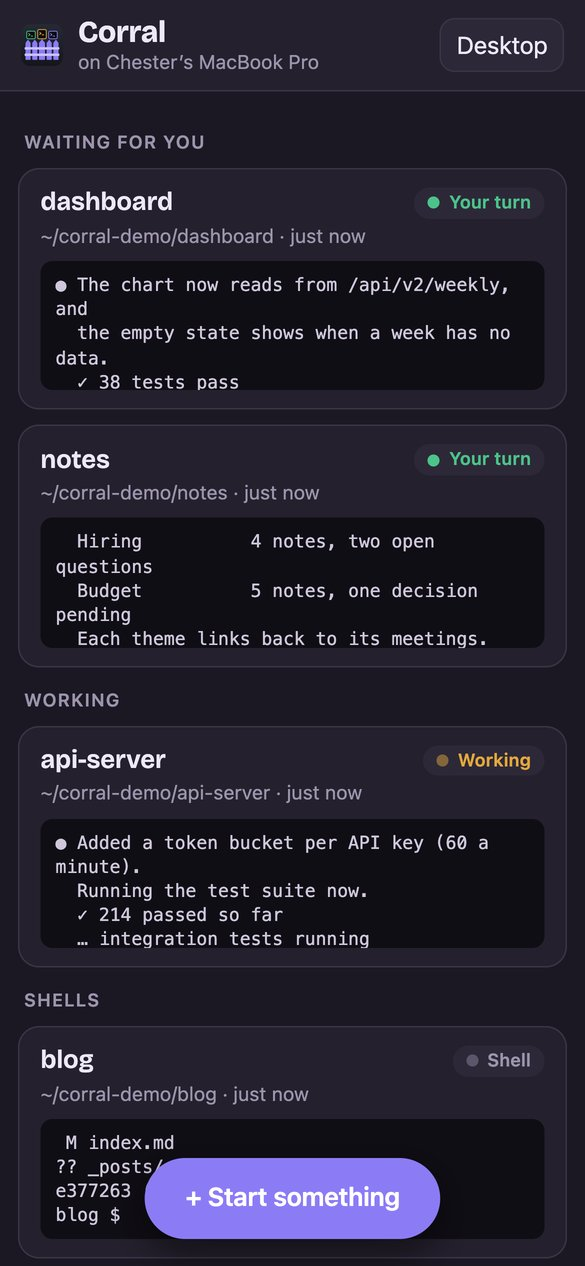
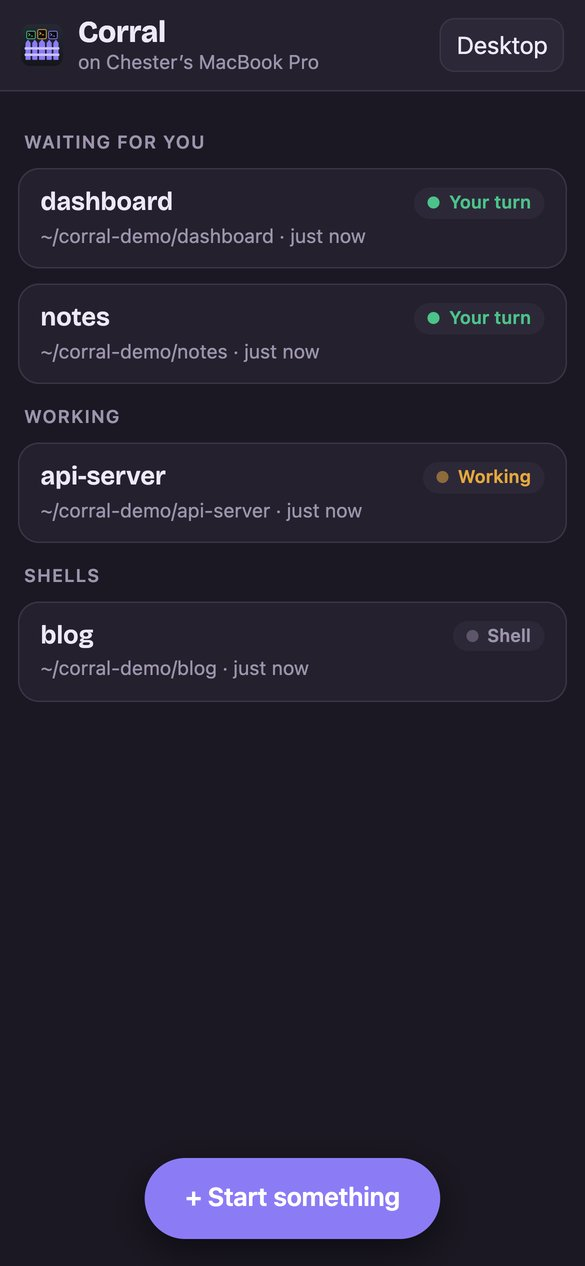
Phone list: drop the terminal text previews
Each card now shows only the window's name, its status, its folder, and when
it last printed, so it is easier to see at a glance which spaces are open.
The server no longer reads each window's screen for the list. README, site,
and the list screenshot updated to match.

Claude-Session: https://claude.ai/code/session_01A6N2menxkiXjtssBJSs2JP

diff --git a/public/m.html b/public/m.html
@@ -60,8 +60,6 @@
   .card .name { font:600 17px/1.2 var(--brand); flex:1; min-width:0; white-space:nowrap; overflow:hidden; text-overflow:ellipsis; }
   .card .when { color:var(--muted); font-size:13px; flex:none; }
   .card .where { color:var(--muted); font-size:13px; margin-top:2px; white-space:nowrap; overflow:hidden; text-overflow:ellipsis; }
-  .card pre { margin:8px 0 0; padding:8px 10px; background:var(--term); border-radius:8px; color:#cfc8dc;
-              font:12px/1.35 var(--mono); white-space:pre-wrap; word-break:break-word; max-height:7.2em; overflow:hidden; }
   .pill { display:inline-flex; align-items:center; gap:6px; font-size:12px; font-weight:600; padding:2px 9px;
           border-radius:99px; background:var(--raise); color:var(--muted); flex:none; }
   .pill::before { content:""; width:8px; height:8px; border-radius:50%; background:var(--unknown); }
@@ -275,8 +273,7 @@ function renderList() {
     }
     kids.push(h('button', { class: 'card', onclick: () => openTerm(w) },
       h('div', { class: 'top' }, h('span', { class: 'name' }, w.label), h('span', { class: `pill ${st.cls}` }, st.text)),
-      h('div', { class: 'where' }, `${home(w.cwd)}${w.activity ? ` · ${ago(w.activity)}` : ''}`),
-      w.preview?.length ? h('pre', {}, w.preview.join('\n')) : null));
+      h('div', { class: 'where' }, `${home(w.cwd)}${w.activity ? ` · ${ago(w.activity)}` : ''}`)));
   }
   list.replaceChildren(...kids);
 }

diff --git a/server.js b/server.js
@@ -418,19 +418,8 @@ function openWindows() {
   });
 }
 
-// The last few lines of a window's screen. In Claude Code the input box (between two horizontal
-// rules) and the status lines under it are dropped, so the preview shows the latest reply.
-const RULE = /^\s*[─━]{8,}\s*$/;
-function screenPreview(id) {
-  let lines;
-  try { lines = tmux('capture-pane', '-p', '-J', '-t', SESSION_PREFIX + id).split('\n'); } catch { return []; }
-  const rules = lines.map((l, i) => (RULE.test(l) ? i : -1)).filter((i) => i >= 0);
-  if (rules.length >= 2) lines = lines.slice(0, rules[rules.length - 2]);
-  return lines.map((l) => l.trimEnd()).filter((l) => l.trim()).slice(-5).map((l) => l.slice(0, 240));
-}
-
-// What the phone page lists: each open window with its last output time, Claude Code's own status
-// (busy, idle, or shell, from its session file), and a short preview of the screen.
+// What the phone page lists: each open window with its last output time and Claude Code's own status
+// (busy, idle, or shell, from its session file).
 function overview() {
   const children = processChildren();
   const panes = new Map();
@@ -449,7 +438,6 @@ function overview() {
       ...publicSession(s),
       activity: p ? p.activity : null,
       claude: claude ? { status: claude.status } : null,
-      preview: s.tmux && !s.exited ? screenPreview(s.id) : [],
     };
   });
 }

diff --git a/docs/index.html b/docs/index.html
@@ -362,9 +362,9 @@
       <div class="phones">
         <figure>
           <img src="img/phone-list.jpg" width="585" height="1266" loading="lazy"
-               alt="Corral's phone page listing four windows: notes and dashboard under Waiting for you, api-server under Working, and a blog shell, each with its last lines of output.">
+               alt="Corral's phone page listing four windows: notes and dashboard under Waiting for you, api-server under Working, and a blog shell, each with its folder.">
           <figcaption><b>Whose turn it is.</b> Sessions waiting for you come first, then the ones working, then shells,
-            each with its last lines.</figcaption>
+            so you can see at a glance what is open.</figcaption>
         </figure>
         <figure>
           <img src="img/phone-terminal.jpg" width="585" height="1266" loading="lazy"

diff --git a/README.md b/README.md
@@ -47,12 +47,12 @@ Project site, with screenshots and use cases: <https://ismayc.github.io/corral/>
   [Remote control from your phone](#remote-control-from-your-phone-with-tailscale)).
   Open `/m` from any device signed in to your tailnet to see every window on
   the Mac, sorted by whose turn it is (Claude waiting for you, Claude working,
-  plain shells), with the last few lines of each. Tap one for a full terminal
-  with the keys a phone lacks (Esc, Shift-Tab, Ctrl, arrows, and the numbers
-  for Claude Code's menus), a **Use suggestion** key that sends Claude
-  Code's suggested next prompt (Tab, then Enter), a message box that works
-  with dictation, and a
-  History view of the scrollback as text you can select. You can also start
+  plain shells), with each one's folder and when it last printed. Tap one for
+  a full terminal with the keys a phone lacks (Esc, Shift-Tab, Ctrl, arrows,
+  and the numbers for Claude Code's menus), a **Use suggestion** key that
+  sends Claude Code's suggested next prompt (Tab, then Enter), a message box
+  that works with dictation, and a History view of the scrollback as text you
+  can select. You can also start
   Claude Code in any project (it also appears, minimized, in the bottom bar of
   the Mac's Corral page), or restore windows after a restart. Add it to
   your Home Screen and it opens like an app. Another computer on your tailnet
@@ -111,7 +111,7 @@ To use Corral from your phone or another computer, see the next section.
 ## Remote control from your phone, with Tailscale
 
 <p align="center">
-  <img src="docs/img/phone-list.jpg" width="200" alt="Corral's phone page listing four windows: notes and dashboard under Waiting for you, api-server under Working, and a blog shell, each with its last lines of output.">
+  <img src="docs/img/phone-list.jpg" width="200" alt="Corral's phone page listing four windows: notes and dashboard under Waiting for you, api-server under Working, and a blog shell, each with its folder.">
   <img src="docs/img/phone-terminal.jpg" width="200" alt="The notes window on a phone: Claude Code's reply, its input box with a dimmed suggested prompt, and a row of keys starting with Use suggestion, Type, Esc, Shift-Tab, and Tab, above a message box and a Send button.">
   <img src="docs/img/phone-start.jpg" width="200" alt="The Start in a project sheet: a choice of Claude Code, Last session, or Shell, a search box, and the list of herdr spaces with their status dots.">
   <img src="docs/img/phone-history.jpg" width="200" alt="The History view of the notes window: its scrollback as plain text with a Copy all button.">
@@ -128,7 +128,7 @@ network between your own devices.
 
 - **See whose turn it is.** Every window on the Mac is listed, Claude Code
   sessions waiting for you first, then the ones still working, then plain
-  shells, each with its last few lines of output. When a session finishes
+  shells, each with its folder and when it last printed. When a session finishes
   while the page is open, a notice says so.
 - **Answer in a real terminal.** Tap a window to open it. A row of keys covers
   what a phone keyboard lacks: **Use suggestion** (sends Claude Code's dimmed
